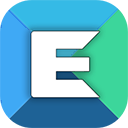
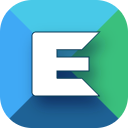
feat: 设置页版本号支持点击查看更新日志; 更新图标和logo

diff --git a/options/options.html b/options/options.html
@@ -19,7 +19,7 @@
         <div class="brand-header">
           <img src="logo.svg" class="logo-icon" alt="ECHO Logo">
           <div class="brand-title">
-            <h1>ECHO <span class="brand-cn">易可</span><span class="version-badge">v1.0.5</span></h1>
+            <h1>ECHO <span class="brand-cn">易可</span><a href="../docs-viewer.html?file=CHANGELOG.md" target="_blank" class="version-link"><span class="version-badge">v1.0.5</span></a></h1>
           </div>
         </div>
         <p class="description">让 Edge 更懂中国用户</p>

diff --git a/options/options.css b/options/options.css
@@ -194,6 +194,16 @@ body {
   margin-left: 4px;
 }
 
+.version-link {
+  text-decoration: none;
+  color: inherit;
+}
+
+.version-link:hover .version-badge {
+  background: linear-gradient(135deg, rgba(0, 120, 212, 0.3) 0%, rgba(0, 183, 195, 0.3) 100%);
+  cursor: pointer;
+}
+
 @keyframes titleGradientFlow {
   0% { background-position: 0% center; }
   100% { background-position: 200% center; }

diff --git a/CHANGELOG.md b/CHANGELOG.md
@@ -1,8 +1,8 @@
 # 更新日志 / Changelog
 
 ## 1.0.5 - 2026-03-09
-- 新增新标签页「空白新标签页」模式：开启后隐藏搜索框、热搜、品牌区、页脚等 NTP 内容，仅保留一个弱化的设置入口，适合偏好极简空白页的用户
-- 本项修改感谢来自煎蛋网用户「日狗少年」提出的建议
+- 新增新标签页「空白页」模式：开启后隐藏搜索框、热搜、品牌区、页脚等 NTP 内容，仅保留一个弱化的设置入口，适合偏好极简空白页的用户。（本项修改感谢来自煎蛋网用户「日狗少年」提出的建议）
+- 设置页左上角版本号支持点击，可在新窗口查看更新日志
 
 ## 1.0.4 - 2026-03-04
 - 修复 Alt+点击快速保存图片在 Bing 图片搜索详情页（大图预览模式）无效的 bug：Bing 使用全屏 iframe（insightsOverlay）覆盖在图片上方，导致父窗口的事件监听器完全收不到点击事件。修复方案：manifest 启用 `all_frames: true` 使 content.js 注入 iframe，iframe 内仅运行 Alt+click 保存逻辑，跳过手势/拖拽等其他功能；同时增加 `elementsFromPoint` 穿透透明 DIV 覆盖层查找图片的能力
